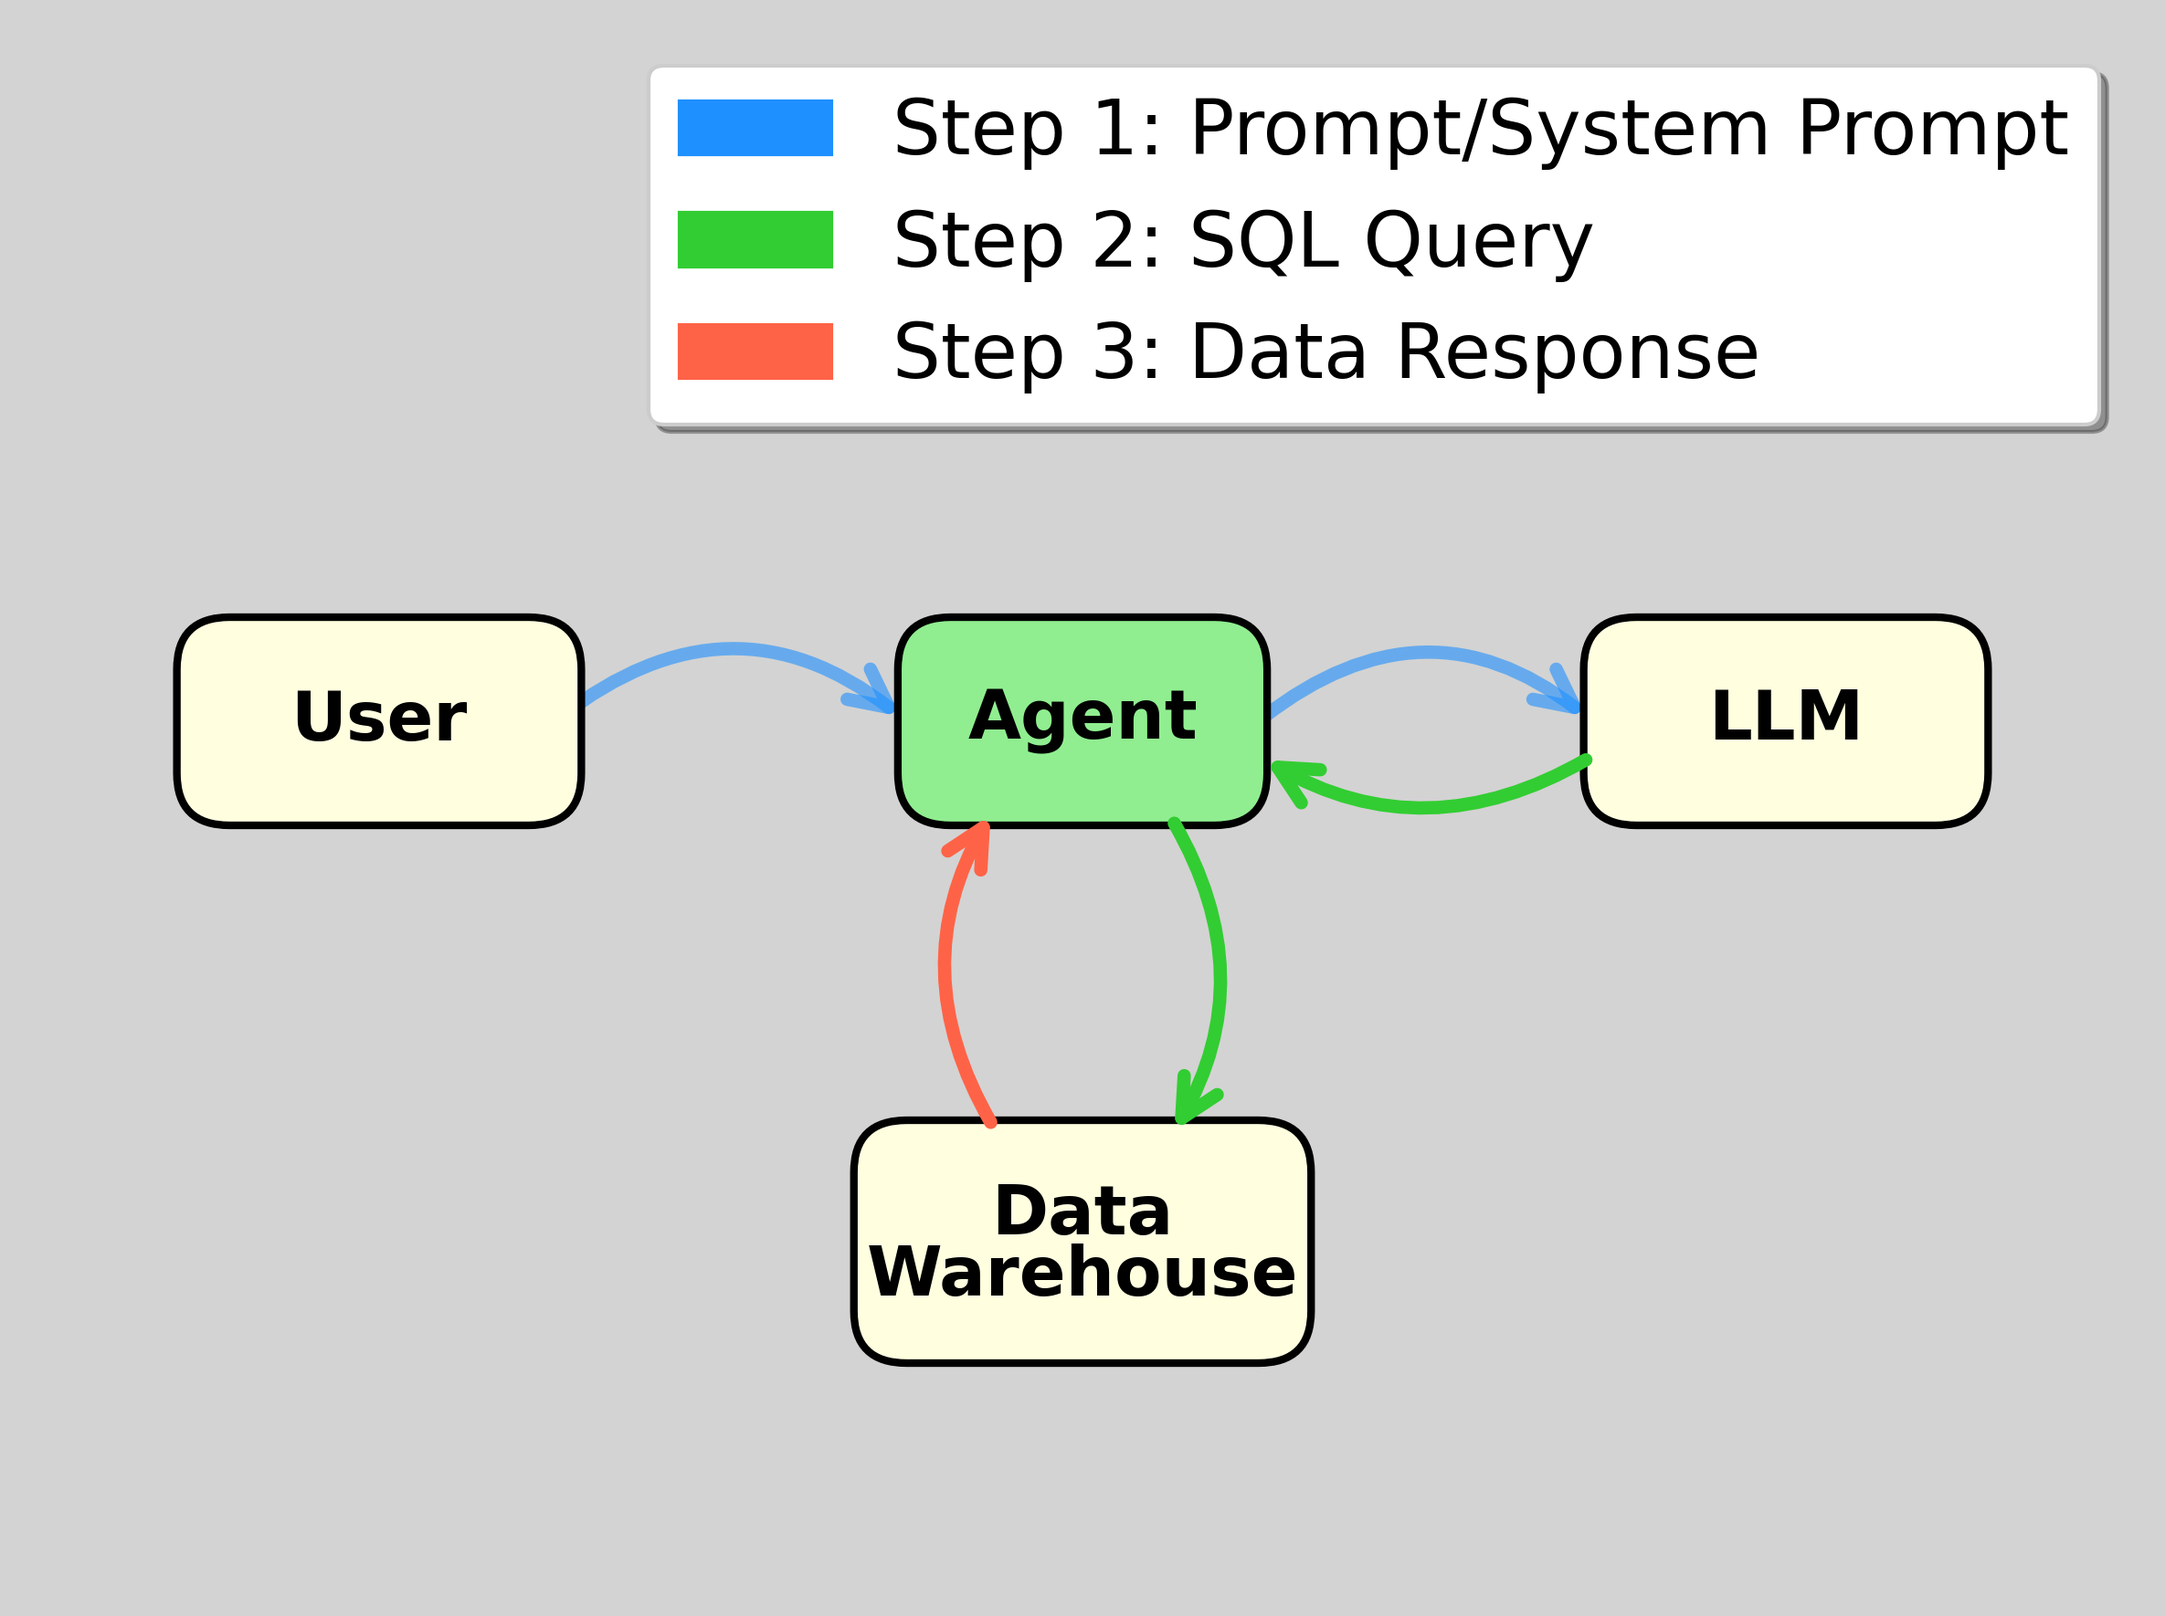
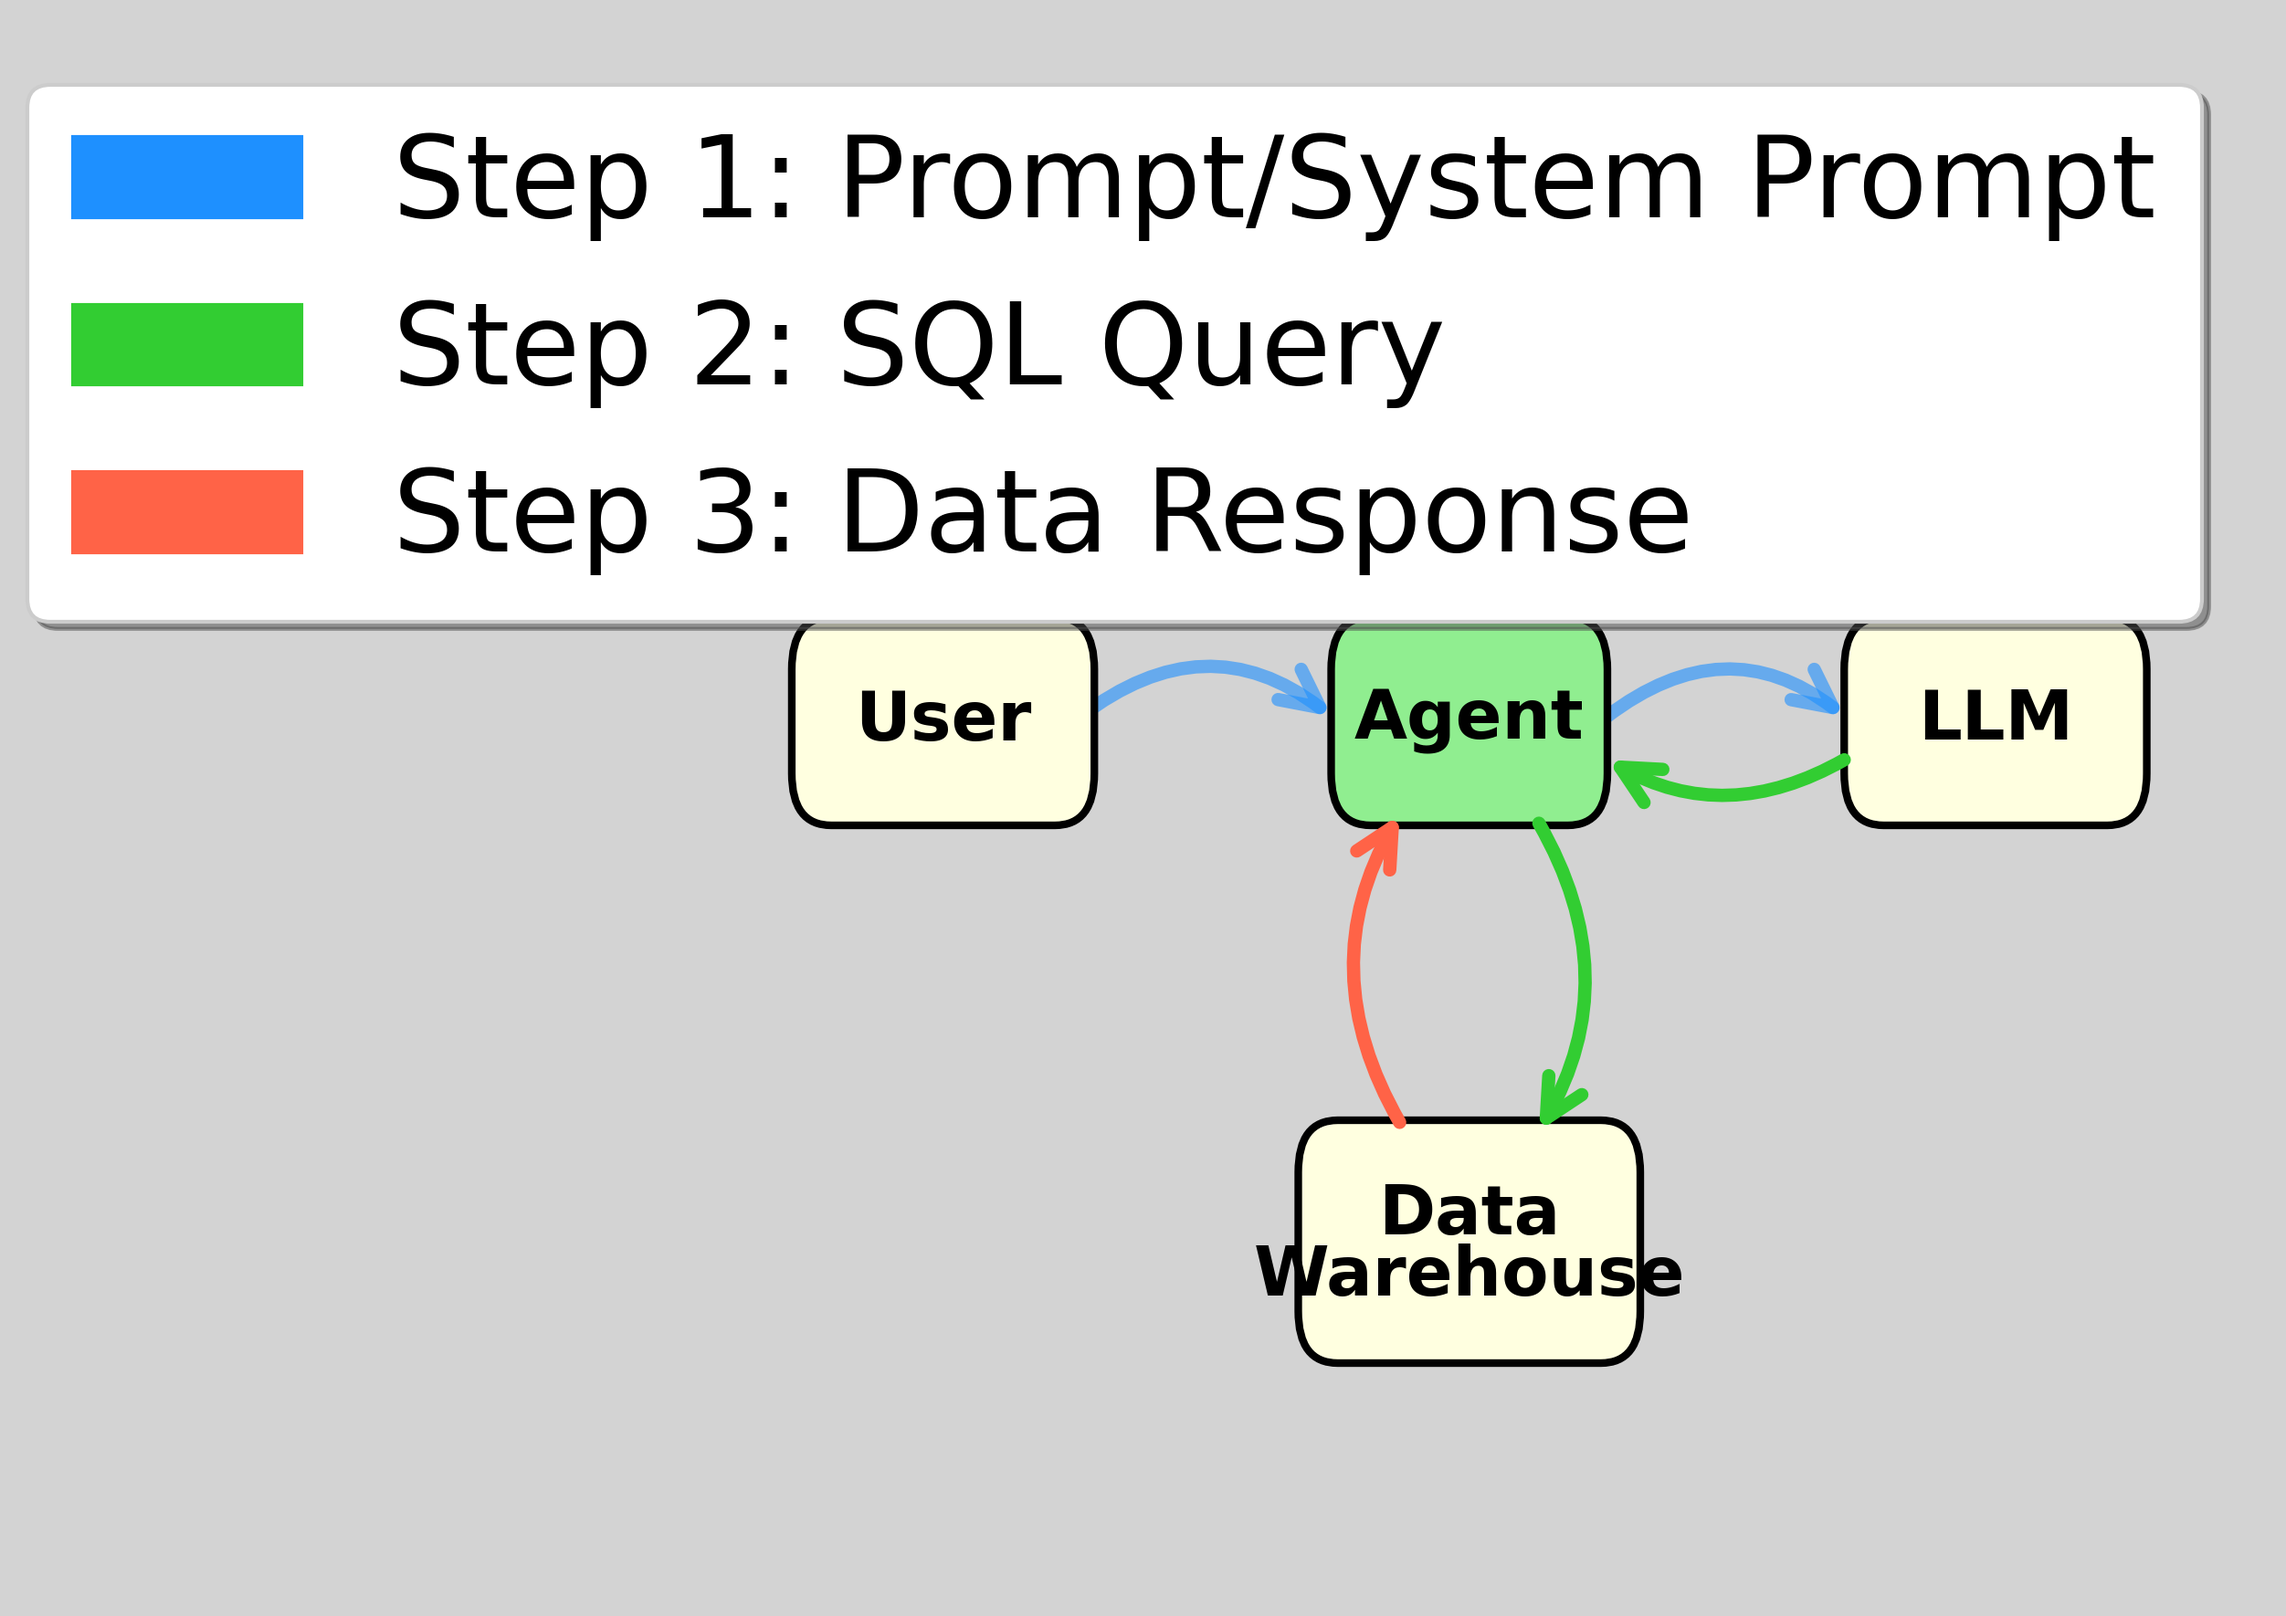
Create clean GitHub Pages structure with proper landing page
- Move presentation to docs/slides3x2.qmd
- Create index.qmd as landing page that renders to docs/
- Add _quarto.yml for project configuration
- Generate slides16x9.qmd with 16:9 dimensions
- Render all files properly with correct dependency paths
- Add CNAME for custom domain

🤖 Generated with [Claude Code](https://claude.ai/code)

diff --git a/create_agent_v2.py b/create_agent_v2.py
@@ -128,7 +128,7 @@ legend_elements = [
     mpatches.Patch(color=color2, label='Step 2: SQL Query'),
     mpatches.Patch(color=color3, label='Step 3: Data Response')
 ]
-ax.legend(handles=legend_elements, loc='upper right', fontsize=20, frameon=True, fancybox=True, shadow=True)
+ax.legend(handles=legend_elements, loc='upper right', fontsize=30, frameon=True, fancybox=True, shadow=True)
 
 # Save the figure
 plt.tight_layout()

diff --git a/create_agent_v3.py b/create_agent_v3.py
@@ -138,7 +138,7 @@ legend_elements = [
     mpatches.Patch(color=color2, label='Step 2: SQL Query'),
     mpatches.Patch(color=color3, label='Step 3: Data Response')
 ]
-ax.legend(handles=legend_elements, loc='upper right', fontsize=20, frameon=True, fancybox=True, shadow=True)
+ax.legend(handles=legend_elements, loc='upper right', fontsize=30, frameon=True, fancybox=True, shadow=True)
 
 # Save the figure
 plt.tight_layout()

diff --git a/create_agent_v4.py b/create_agent_v4.py
@@ -150,7 +150,7 @@ legend_elements = [
     mpatches.Patch(color=color2, label='Step 2: SQL Query'),
     mpatches.Patch(color=color3, label='Step 3: Data Response')
 ]
-ax.legend(handles=legend_elements, loc='upper right', fontsize=20, frameon=True, fancybox=True, shadow=True)
+ax.legend(handles=legend_elements, loc='upper right', fontsize=30, frameon=True, fancybox=True, shadow=True)
 
 # Save the figure
 plt.tight_layout()

diff --git a/create_agent_v1.py b/create_agent_v1.py
@@ -84,7 +84,7 @@ legend_elements = [
     mpatches.Patch(color=color2, label='Step 2: SQL Query'),
     mpatches.Patch(color=color3, label='Step 3: Data Response')
 ]
-ax.legend(handles=legend_elements, loc='upper right', fontsize=20, frameon=True, fancybox=True, shadow=True)
+ax.legend(handles=legend_elements, loc='upper right', fontsize=30, frameon=True, fancybox=True, shadow=True)
 
 # Save the figure
 plt.tight_layout()
